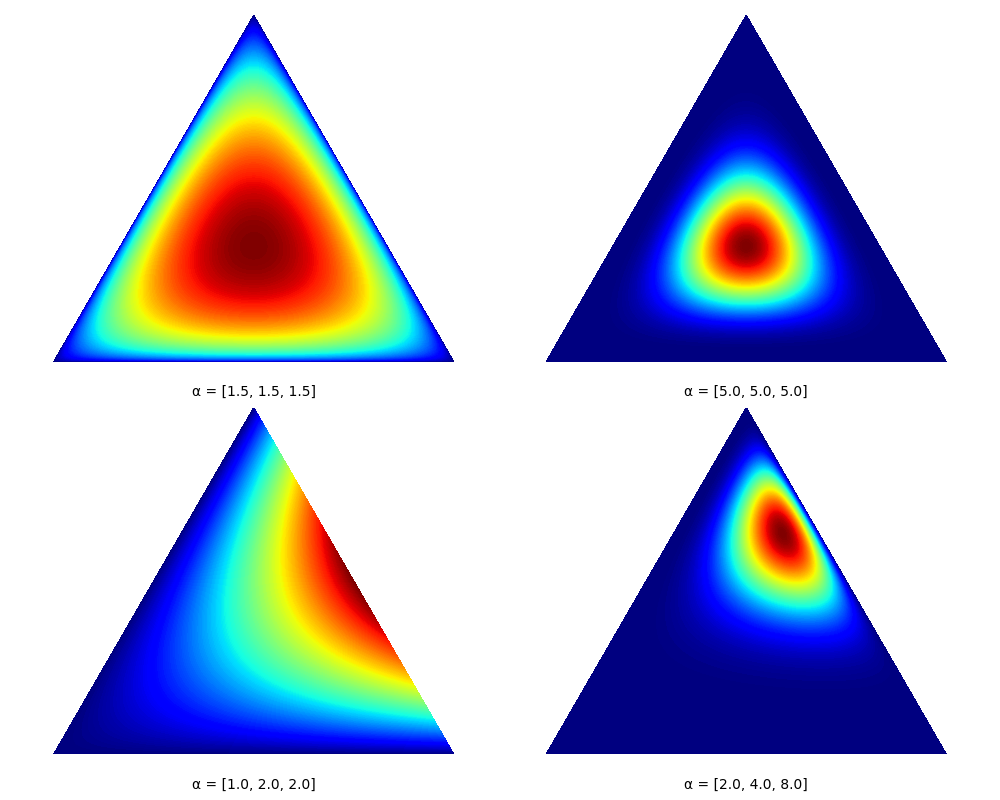
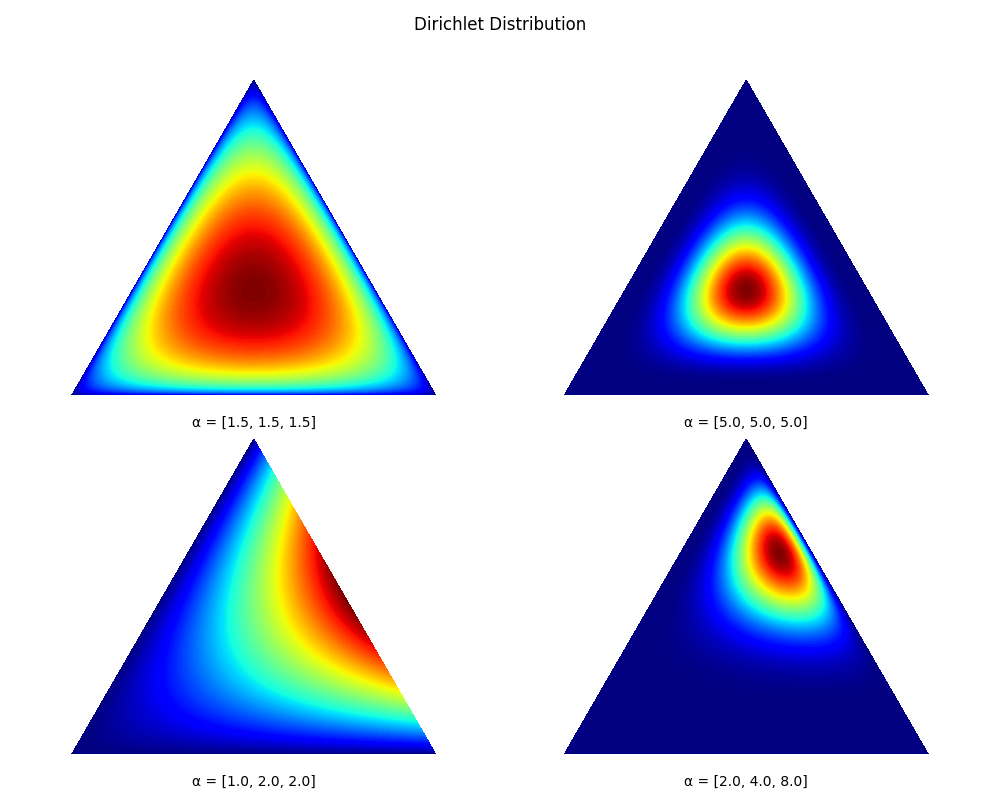
Add title to Dirichlet

diff --git a/src/distributions/dirichlet.py b/src/distributions/dirichlet.py
@@ -54,7 +54,10 @@ def save_to(directory: str, _: str):
     for ax, alphas in zip(axes.flatten(), inputs):
         draw_pdf_contours(ax, alphas)
 
+    plt.suptitle("Dirichlet Distribution", fontsize=12)
+
     # Save the figure
     plt.tight_layout()
+    plt.subplots_adjust(top=0.9)
     plt.savefig(f"{directory}/dirichlet.{extension}")
     plt.close()
